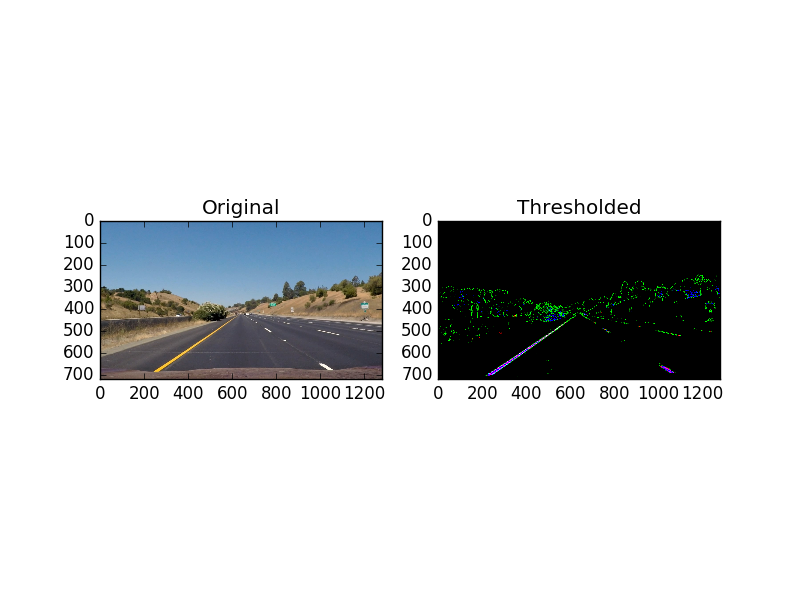
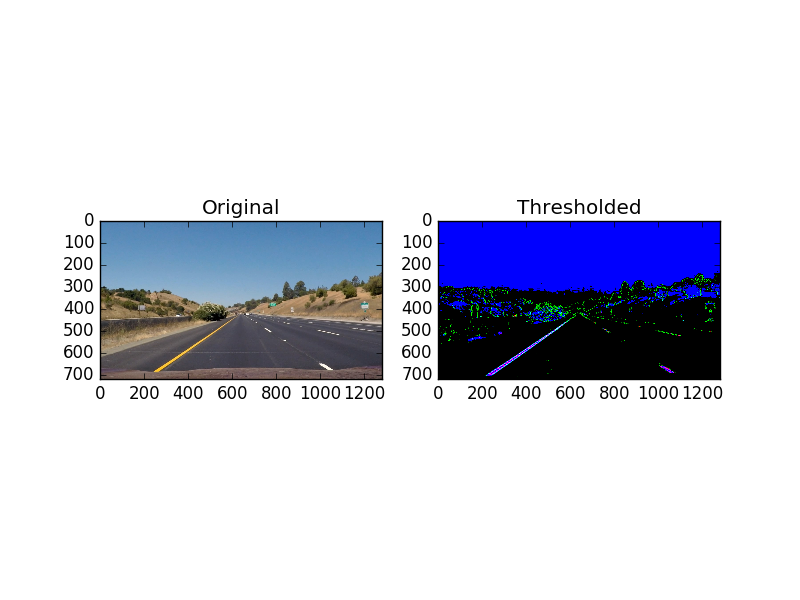
working well

Changed region(s): [[0.5312, 0.36, 0.9062, 0.54]]

diff --git a/advanced_lane_finding.py b/advanced_lane_finding.py
@@ -266,7 +266,7 @@ def SobelX(src):
     return sobel_binary
 
 def HlsGrad(src):
-    # Apply an HSL color transformation on an image
+    # Apply an HLS color transformation on an image
     # keep only the pixels that lie within the thresholds in the S plane
     
     hls = cv2.cvtColor(src, cv2.COLOR_RGB2HLS)
@@ -447,7 +447,7 @@ unwarp.Minv = cv2.getPerspectiveTransform(polygon2, polygon1)
 # lane finder params: number of slices, width of search region, number of pixels
 find_lines.num, find_lines.width, find_lines.min = 8, 160, 50
 # Sobel and HLS thresholds
-SobelX.thresh, HlsGrad.s_thresh = [30, 80], [155, 255]
+SobelX.thresh, HlsGrad.s_thresh = [30, 80], [90, 255]
 # Yellow and white thresholds
 ColorFilt.yellow, ColorFilt.white = [[215, 255], [160, 255], [0, 160]],[[225, 255], [225, 255], [225, 255]]
 
